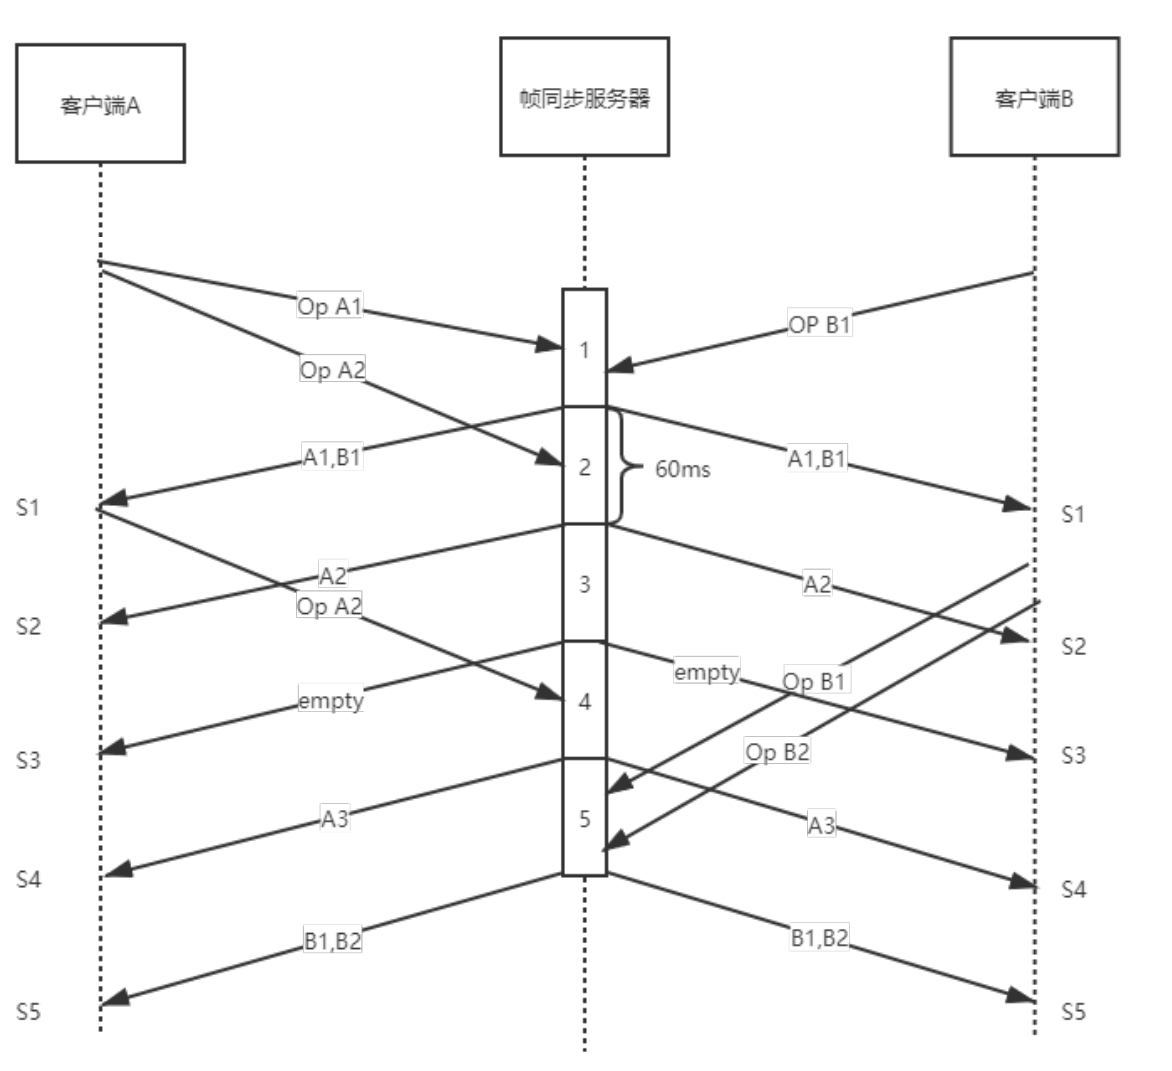
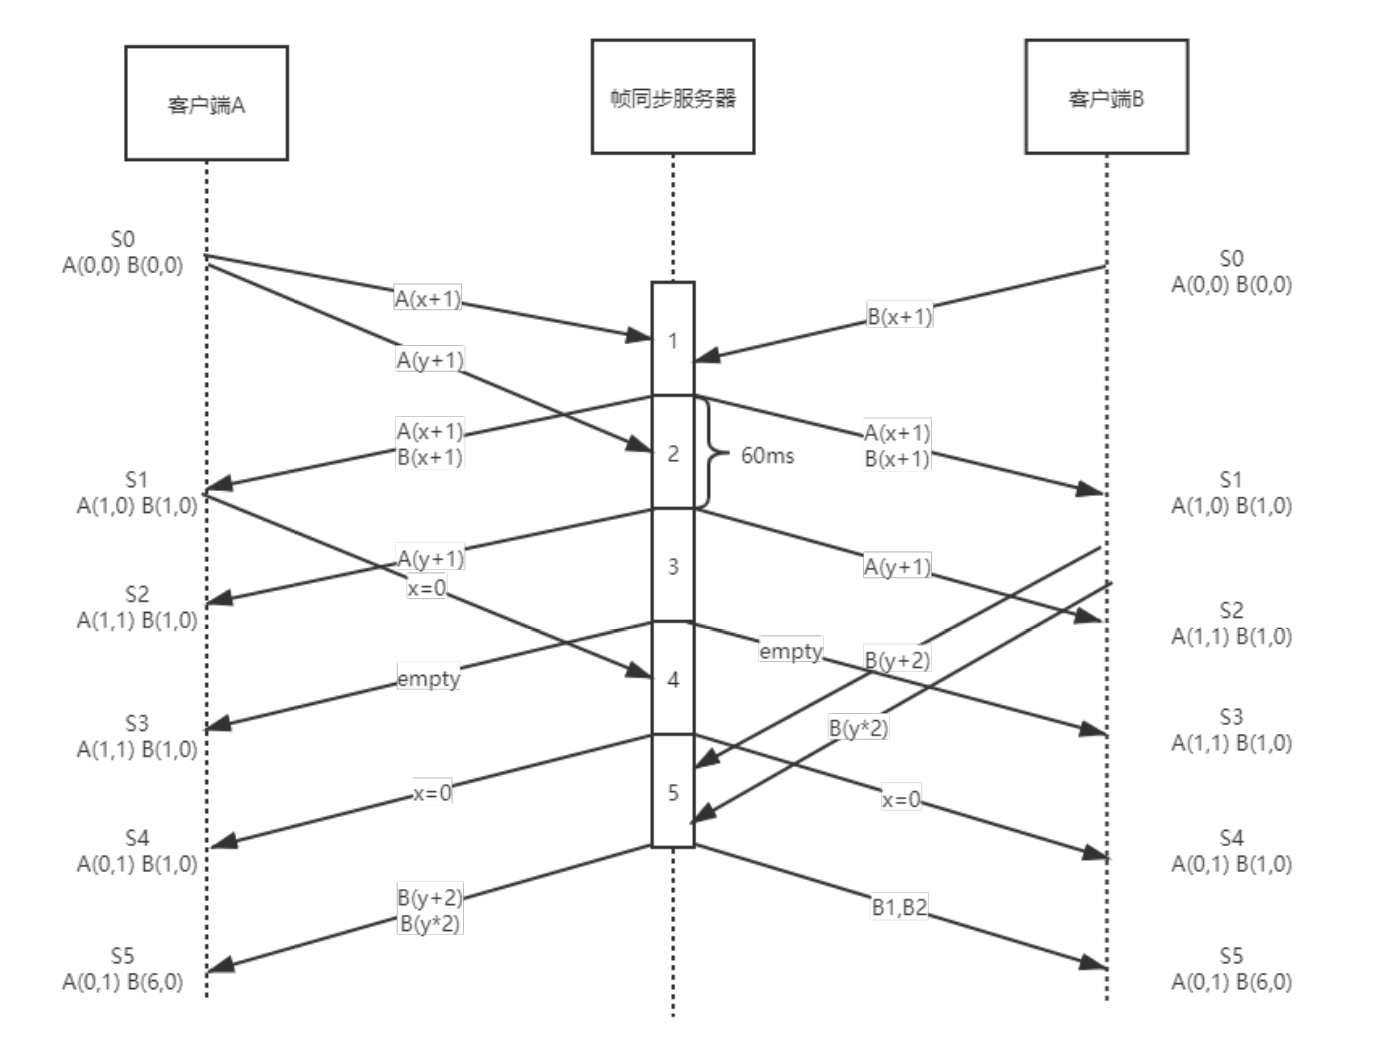
almost

diff --git a/source/_posts/Synchronization.md b/source/_posts/Synchronization.md
@@ -36,9 +36,9 @@ mathjax: true
 
 ![](Synchronization/lockstepNow.png)
 
-可以看到，服务器在第一个逻辑帧内同时收到了客户端A和客户端B的操作指令A1和B1，在服务器逻辑帧时间段结束那一刻，服务器会向客户端A和B同时下发包含(A1,B1)的数据包，客户端接受到服务器的指令后才会驱动游戏逻辑更新进入到T1的状态。
+一个简单的例子，假设我们需要进行同步的是一个坐标，客户端A,B都有相同的初始状态A(0,0) B(0,0)。客户端A短时间连续操作，向服务器发出了A坐标x+1,y+1的指令，B客户端则向服务器发送了B坐标x+1的指令。在帧同步服务器的第一个逻辑帧内，A(x+1),B(x+1)的指令被服务器收到，服务器在帧末尾向A，B两个客户端转发这两条指令，客户端接受到服务器的驱动更新指令后进行逻辑更新，进入到一个新的状态S1 [A(1,0),B(1,0)] ，可以看到，虽然AB两个客户端进入到S1状态的时间不一样，但最终在逻辑更新后会达到同样的状态。
 
-后续的逻辑帧更新类似，每一帧内收到客户端的输入都会在帧末将收到的指令转发到所有的客户端进行逻辑更新，这就保证了所有的客户端在每个逻辑帧收到的输入是一样的。
+后续的逻辑帧更新类似，每一帧内服务器收到客户端的输入都会在帧末将这些指令转发到所有的客户端进行逻辑更新，如果游戏会在第N个逻辑帧结束，那么以这个算法来同步，可以保证AB两个客户端在所有的逻辑帧拥有相同的状态。
 
 ### 逻辑帧和渲染帧
 
@@ -104,9 +104,7 @@ mathjax: true
 
 客户端有丰富的表现：人物、枪械、场景，DS上只有各种碰撞框。
 
-状态同步的大致流程如下：
-
-![](Synchronization/StateSyncPre.png)
+有预表现的状态同步的大致流程如下：
 
 - 接受到玩家的输入后，客户端直接执行逻辑代码。
 - 将运算的结果和玩家输入同时发送给服务器。
@@ -114,12 +112,25 @@ mathjax: true
 - 服务器校验运算结果与客户端的运算结果，如果服务器与玩家客户端发送的运算结果一样，那么无事发生，如果不一样，服务器就会用服务器的运算结果修正客户端的状态。
 - 将服务器的运算结果推送给第三方客户端。
 
+![](Synchronization/StateSyncPre.png)
+
+同样以一个同步坐标为例，在游戏开始的时候，客户端A和DS服务器有一个相同的坐标状态A(0,0)，客户端A在接受到玩家的输入后，执行游戏逻辑，运算后会将A的坐标改变为A(1,0)，在这之后，客户端将运算的结果(1,0)和用户的输入都发送给DS，DS接受到消息后执行相同的游戏逻辑，运算后得到的结果也为(1,0)，客户端和DS达成同步。
+
+不过，客户端在接受用户的第二次收入后，将坐标更新为(2,0)，DS验算的结果却将(1,0)改变为(1,1)，客户端A的状态与DS不一样，DS就会强行将客户端A的的坐标修正为(1,1)，也就是拉扯。
+
+相比帧同步所有的客户端逻辑帧内拥有相同的状态，状态同步则是通过每帧传输所有的状态信息来保证客户端和DS的同步，不需要预表现的属性，比如血量，攻击力，无论什么时候DS和客户端都拥有相同的状态。需要预表现的属性，比如位置信息，在停止相关操作后，也能达迅速达成客户端和DS的同步。
+
 ### 状态同步的优点
 
 - 相比帧同步需要等待服务器驱动，状态同步可以对输入做预表现，响应迅速。
-- 天然支持断线重连，每一帧都在同步服务器上的状态。
+- 天然支持断线重连，DS上拥有所有的信息，断线后只需要将这些信息发送给客户端。
+- 性能优化容易，比如AI逻辑可以完全在DS上执行，客户端只需要表现位置变更动画表现以及放技能，一些复杂的逻辑也可以放在DS上做，客户端只做表现。
+
 
 ### 状态同步的缺点
 
+- 流量较大，相比简单传输指令的帧同步，传输状态信息显然是需要更大的网络流量。
 - 开发效率较低，每一个gameplay玩法都需要考虑客户端该怎么做，ds该怎么做，是否需要额外同步。
-- 
+- 服务器开销较大，服务器通常要跑所有的游戏逻辑。
+
+## 比较
